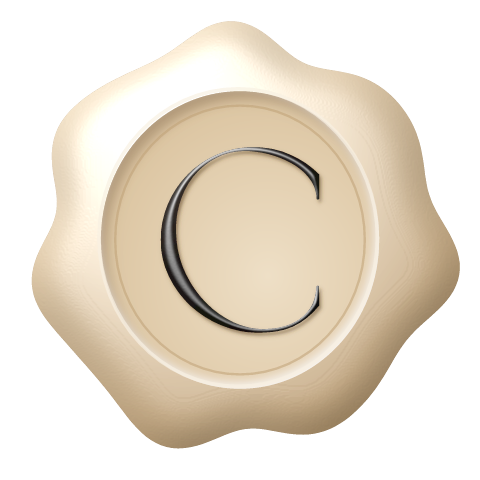
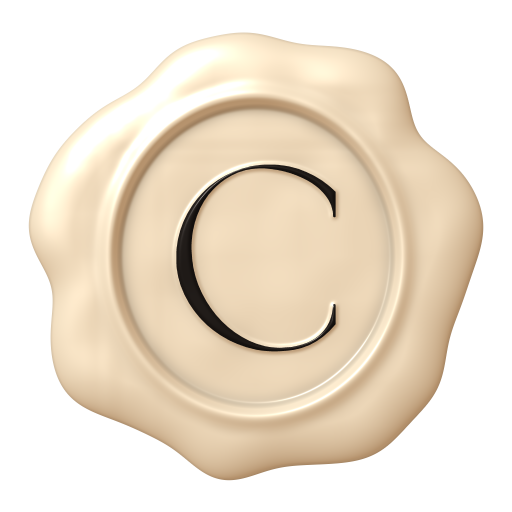
Check-in em estilo editorial, fundo claro, botao no cartao e selo de cera realista

Changed region(s): [[0.0312, 0.0312, 0.9688, 0.9375], [0.3125, 0.2812, 0.6875, 0.7188], [0.7188, 0.5938, 0.75, 0.6562]]

diff --git a/index.html b/index.html
@@ -15,7 +15,7 @@
 <meta property="og:image:height" content="1685">
 <meta name="twitter:card" content="summary_large_image">
 <meta name="twitter:title" content="Cherie Be - Unhas, Cílios e Sobrancelhas">
-<link rel="icon" href="selo.png?v=3" type="image/png">
+<link rel="icon" href="selo.png?v=4" type="image/png">
 <link rel="manifest" href="manifest.webmanifest?v=4">
 <link rel="apple-touch-icon" href="icones/apple-180.png?v=4">
 <meta name="theme-color" content="#F4EFE7">
@@ -122,20 +122,18 @@ h2{font-size:clamp(2.3rem,7vw,3.6rem)}
 .preco small{font:400 .72rem var(--texto);margin-right:4px}
 
 /* área da cliente */
-.cliente{background:var(--areia)}
+.cliente{background:var(--papel);border-top:1px solid var(--fio)}
 .cliente .w{padding-block:56px;display:grid;gap:28px;grid-template-columns:minmax(0,1fr)}
 @media (min-width:860px){.cliente .w{grid-template-columns:minmax(0,5fr) minmax(0,6fr);align-items:start;gap:48px}}
 .cliente .texto{display:grid;gap:14px}
 .cliente .texto p{margin:0;max-width:44ch}
-.cliente #simular{width:100%;max-width:44ch}
-.como{max-width:44ch}
-.como summary{cursor:pointer;font:500 .78rem var(--texto);letter-spacing:.16em;text-transform:uppercase;text-decoration:underline;text-underline-offset:4px;list-style:none;padding:6px 0}
-.como summary::-webkit-details-marker{display:none}
-.como summary::after{content:" +"}
-.como[open] summary::after{content:" −"}
-.como[open]{display:grid;gap:12px}
+.ck-cab{border-bottom:1px solid var(--tinta);padding-bottom:14px}
+.ck-sub{color:var(--cera);margin-top:6px!important}
+.ck-passos{list-style:none;margin:0;padding:0;max-width:44ch}
+.ck-passos li{display:grid;grid-template-columns:44px minmax(0,1fr);align-items:baseline;padding:12px 0;border-bottom:1px solid var(--fio)}
+.ck-passos b{font:400 1.35rem/1 var(--display);font-variant-numeric:lining-nums}
 .passos{margin:0;padding-left:1.2em;display:grid;gap:6px;max-width:44ch}
-.cartao{background:var(--papel);padding:24px;display:grid;gap:18px}
+.cartao{background:#FFFDF9;border:1px solid var(--fio);padding:24px;display:grid;gap:18px}
 .cartao h3{font:400 1.7rem/1.1 var(--display);margin:0}
 form{display:grid;gap:14px}
 .campo{display:grid;gap:6px}
@@ -318,7 +316,7 @@ body.com-banner{padding-bottom:100px}
 @keyframes cupom{to{opacity:1;transform:translate(-50%,-62%) scale(1) rotate(-4deg)}}
 .presente.ja .tampa,.presente.ja .brilho,.presente.ja .cupom{animation-duration:0s;animation-delay:0s}
 @media (prefers-reduced-motion:reduce){.px,.presente.balanca .px{animation:none}}
-.meta-presente{overflow:hidden;display:grid;grid-template-columns:auto minmax(0,1fr);gap:6px 14px;align-items:center;background:var(--bege);padding:6px 16px 6px 4px}
+.meta-presente{overflow:hidden;border:1px solid var(--bege);display:grid;grid-template-columns:auto minmax(0,1fr);gap:6px 14px;align-items:center;background:var(--papel);padding:6px 16px 6px 4px}
 .meta-presente p{margin:0}
 .mp-t{font:italic 400 1.3rem/1.15 var(--display);margin:2px 0!important}
 .mp-s{color:var(--suave);font-size:.9rem}
@@ -399,12 +397,10 @@ body.com-banner{padding-bottom:100px}
 
 <section class="cliente" id="cliente"><div class="w">
   <div class="texto">
-    <h2>Check-in Cherie</h2>
-    <button class="btn cheio" id="simular" type="button">Escanear o QR do salão</button>
-    <details class="como"><summary>Como funciona</summary>
-      <p>A cada visita você ganha um selo no seu cartão. Completou dez, o próximo momento sai com 20% off.</p>
-      <ol class="passos"><li>Crie seu cartão com nome e WhatsApp.</li><li>No salão, aponte a câmera para o QR do balcão.</li><li>Vale um selo por dia.</li></ol>
-    </details>
+    <div class="ck-cab"><h2>Check-in Cherie</h2></div>
+    <p class="rotulo ck-sub">Como funciona</p>
+    <p>A cada visita você ganha um selo no seu cartão. Completou dez, o próximo momento sai com 20% off.</p>
+    <ol class="ck-passos"><li><b>01</b><span>Crie seu cartão com nome e WhatsApp.</span></li><li><b>02</b><span>No salão, aponte a câmera para o QR do balcão.</span></li><li><b>03</b><span>Vale um selo por dia.</span></li></ol>
   </div>
   <div class="cartao">
     <form id="cadastro" novalidate>
@@ -416,7 +412,7 @@ body.com-banner{padding-bottom:100px}
       <p class="aviso erro" id="erro-cadastro" role="alert"></p>
     </form>
     <div class="criando" id="criando" hidden role="status" aria-live="polite">
-      <img src="selo.png?v=3" alt="">
+      <img src="selo.png?v=4" alt="">
       <ol><li>Carregando dados...</li><li>Criando cartão Cherie...</li><li class="fim"></li></ol>
     </div>
     <div id="cartela" hidden>
@@ -427,6 +423,7 @@ body.com-banner{padding-bottom:100px}
           <div class="presente" id="presente-cartao" aria-hidden="true"></div>
           <div><p class="rotulo" id="mp-r">Visita 10</p><p class="mp-t" id="mp-t">Um presente te espera.</p><p class="mp-s" id="mp-s"></p></div>
         </div>
+        <button class="btn cheio" id="simular" type="button">Escanear o QR do salão</button>
         <p class="aviso" id="aviso-selo" role="status"></p>
         <div class="premio" id="premio" hidden>
           <a class="btn cheio" id="resgatar" target="_blank" rel="noopener" href="#">Resgatar no WhatsApp</a>
@@ -458,7 +455,7 @@ body.com-banner{padding-bottom:100px}
 
 <div id="festa" hidden role="dialog" aria-modal="true" aria-labelledby="festa-n">
   <div class="festa-cx">
-    <div class="festa-selo" id="festa-selo"><img id="festa-img" src="selo.png?v=3" alt=""></div>
+    <div class="festa-selo" id="festa-selo"><img id="festa-img" src="selo.png?v=4" alt=""></div>
     <div class="presente grande" id="festa-presente" aria-hidden="true"></div>
     <p class="rotulo sobe" id="festa-rotulo">Visita 1</p>
     <p class="festa-n sobe" id="festa-n"></p>
@@ -675,7 +672,7 @@ function desenhar(vis,chegou,revela){
   const g=$('selos');g.textContent='';
   for(let i=0;i<META;i++){const v=document.createElement('div');v.className='vaga';v.style.setProperty('--i',i);
     if(i===META-1&&i>=n)v.innerHTML=ICO_PRESENTE;else v.textContent=i+1;
-    if(i<n){v.classList.add('cheia');const c=new Image();c.src='selo.png?v=3';c.alt='';if(i===chegou)c.className='chegou';v.appendChild(c)}
+    if(i<n){v.classList.add('cheia');const c=new Image();c.src='selo.png?v=4';c.alt='';if(i===chegou)c.className='chegou';v.appendChild(c)}
     g.appendChild(v)}
   const falta=META-n,pc=$('presente-cartao');
   pc.classList.toggle('aberto',n>=META);pc.classList.toggle('ja',n>=META);pc.classList.remove('balanca');
@@ -701,7 +698,7 @@ const chuva=(()=>{const c=document.createElement('canvas');c.id='chuva';c.setAtt
   return{estouro(px,py,n){for(let i=0;i<n;i++){const an=Math.random()*6.283,v=2+Math.random()*8;p(px,py,Math.cos(an)*v,Math.sin(an)*v-3.5)}ligar()},chover(ms){ate=performance.now()+ms;ligar()}}})();
 /* O selo sai da vaga, cresce até o centro com confete, mostra o progresso e volta para o cartão. */
 let festaTimer=0,festaAberta=false;
-function voador(r){const v=new Image();v.id='voador';v.src='selo.png?v=3';v.alt='';v.style.cssText='left:'+r.left+'px;top:'+r.top+'px;width:'+r.width+'px;height:'+r.height+'px';document.body.appendChild(v);return v}
+function voador(r){const v=new Image();v.id='voador';v.src='selo.png?v=4';v.alt='';v.style.cssText='left:'+r.left+'px;top:'+r.top+'px;width:'+r.width+'px;height:'+r.height+'px';document.body.appendChild(v);return v}
 function alvo(vaga,a){const v=vaga.getBoundingClientRect();return{dx:v.left-v.width*.1-a.left,dy:v.top-v.height*.1-a.top,s:v.width*1.2/a.width,cx:v.left+v.width/2,cy:v.top+v.height/2}}
 function festejar(n){
   const f=$('festa'),sel=$('festa-selo'),cx=f.querySelector('.festa-cx'),cheio=n>=META,de=(n-1)*100/META,ate=n*100/META;
